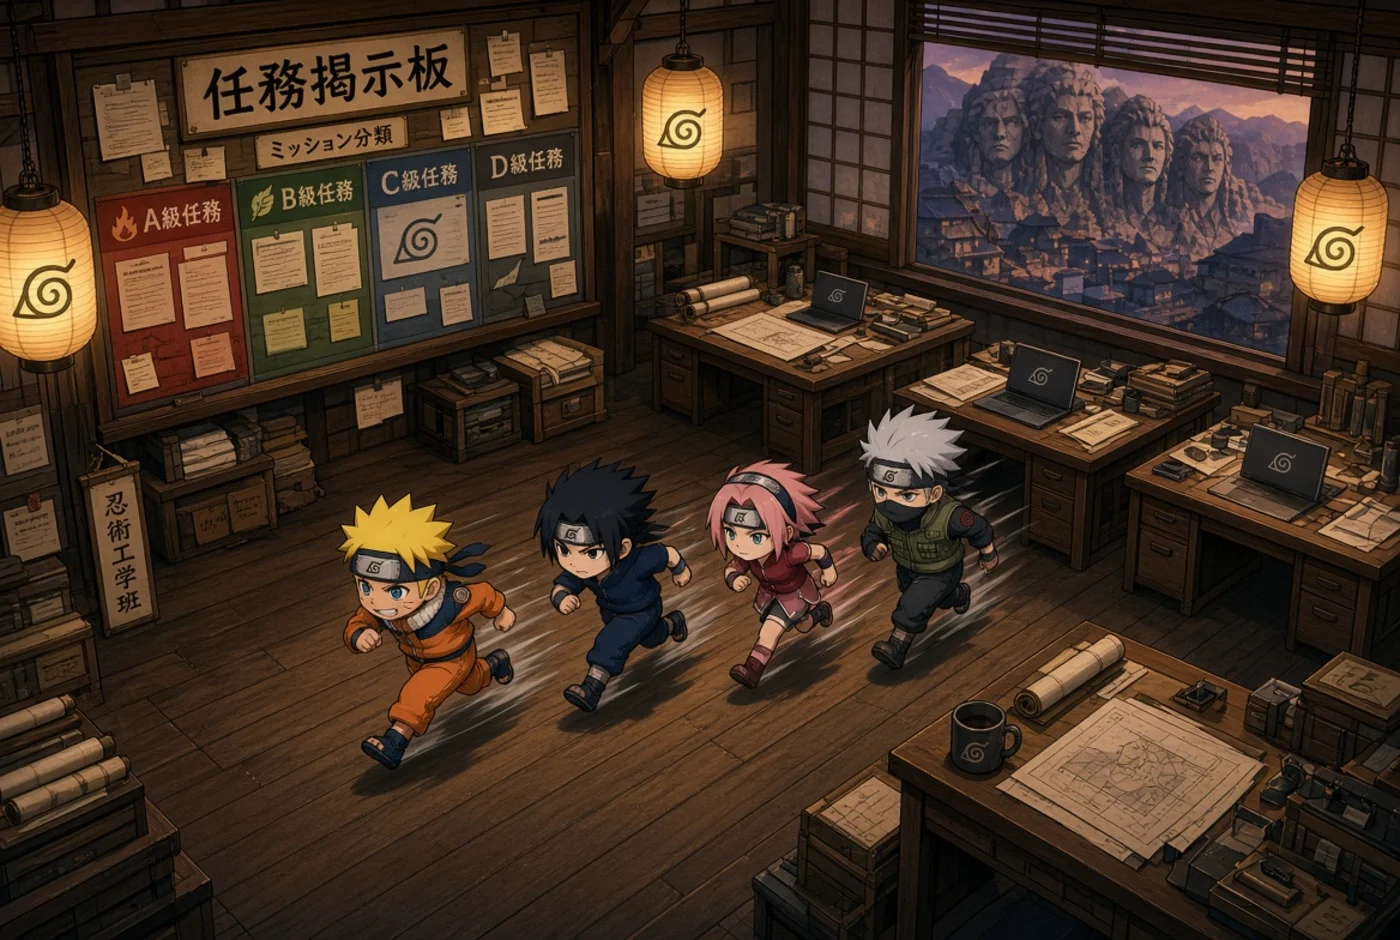
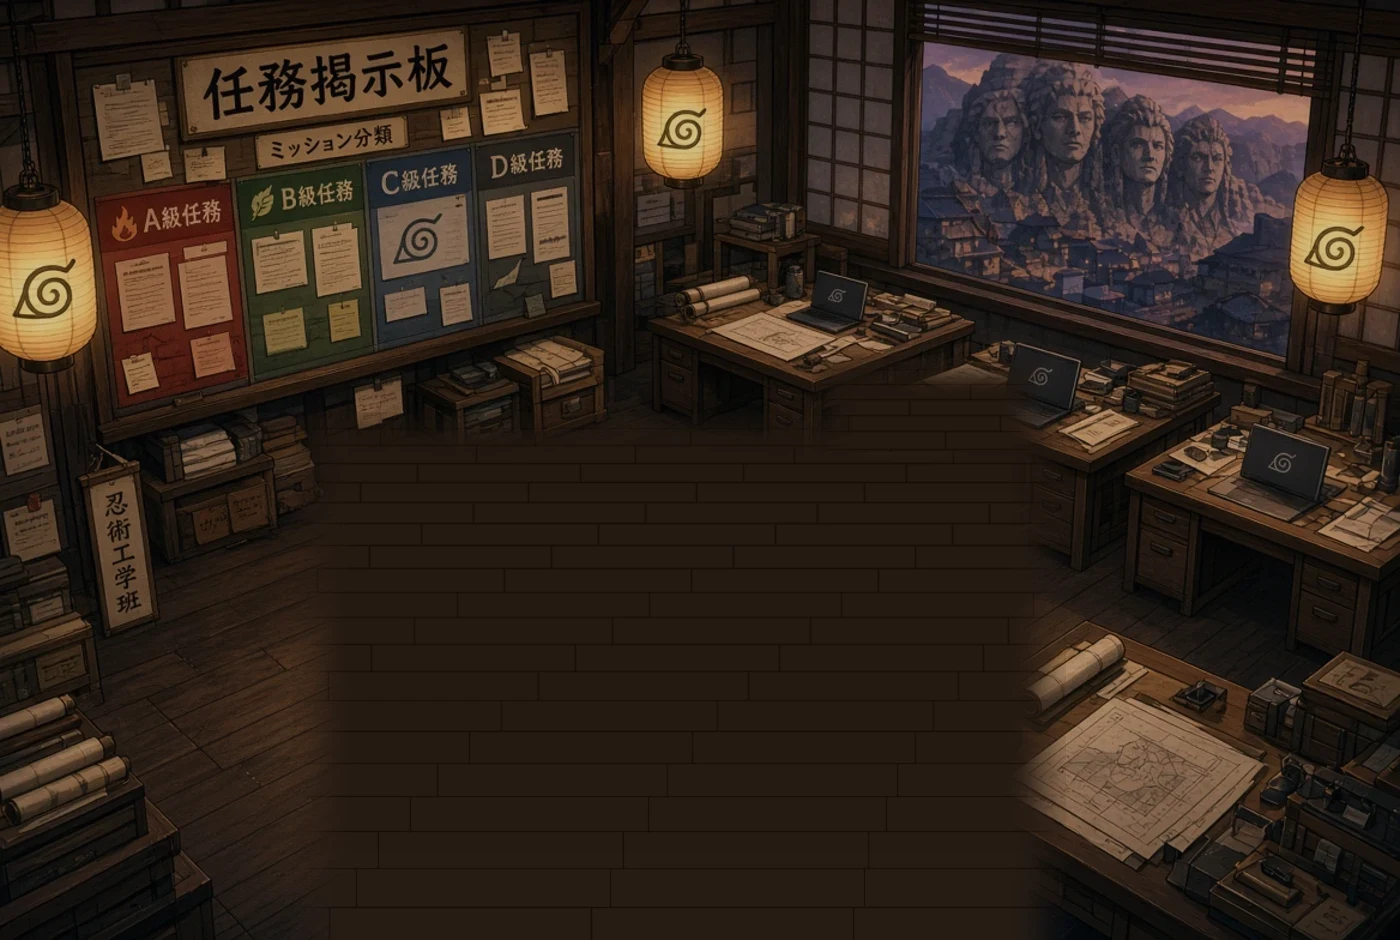
feat: character-free mission room, and labels that match it
The supplied room art had Team 7 painted into it, so the floor carried a second
full-size cast competing with the actual sprites — two Narutos, two Sasukes.

Image generation was unavailable (0 credits), so the plate was rebuilt locally
instead. Copying clean floor over the runners was tried first and rejected: the
reference has no clean floor band big enough, so tiling dragged crates and desk
legs into the middle. What ships keeps the reference's whole upper half — the
mission board, lanterns, Hokage-rock window, desks, scrolls, all genuinely
character-free — and REDRAWS the centre floor as planks in tones sampled from
the room's own palette, feathered into the untouched sides.

Coverage is two patches, not one: the runners' heads sit at different heights
(Kakashi's hair reaches y~400, Naruto's fringe only y~500), so a single straight
cut either clipped the desks or left hair showing through the feathered edge.

Labels follow the art: this is an interior mission room, so 'Village gate' ->
'Window', 'Ichiraku' -> 'Tea corner', 'Training post' -> 'Desk', 'Perch' ->
'Floor', and the ambient lines match. Slot COORDINATES are untouched — the
isometric perspective already reads correctly (small y = back of the room), so
the navigation graph needed no rewiring.

Floor is 148 KB, down from 216 KB. 63 tests, validator clean, verified in a
real browser with eight agents and a jutsu mid-ritual.

Claude-Session: https://claude.ai/code/session_019aY4fCaH9tfGUQpJD7WuVK

diff --git a/js/themes/leaf.js b/js/themes/leaf.js
@@ -36,21 +36,21 @@
     slots: {
       ORCHESTRATOR_HOME: { x: 50, y: 22, face: 'up', label: nm('Hokage desk', 'Leader desk') },
       THINK_SPOT: { x: 12, y: 30, face: 'left', label: 'Mission board' },
-      BREAK_SPOT: { x: 87, y: 18, face: 'up', label: nm('Ichiraku', 'Ramen stand') },
-      AMBIENT_SPOT: { x: 50, y: 8, face: 'up', label: 'Village gate' },
-      GATHER_SPOT: { x: 50, y: 60, face: 'down', label: 'Training ground' },
+      BREAK_SPOT: { x: 87, y: 18, face: 'up', label: 'Tea corner' },
+      AMBIENT_SPOT: { x: 50, y: 8, face: 'up', label: 'Window' },
+      GATHER_SPOT: { x: 50, y: 60, face: 'down', label: 'Briefing floor' },
 
-      WORKER_1: { x: 18, y: 48, face: 'left', label: 'Training post' },
-      WORKER_2: { x: 82, y: 48, face: 'right', label: 'Training post' },
-      WORKER_3: { x: 18, y: 74, face: 'left', label: 'Training post' },
-      WORKER_4: { x: 82, y: 74, face: 'right', label: 'Training post' },
+      WORKER_1: { x: 18, y: 48, face: 'left', label: 'Desk' },
+      WORKER_2: { x: 82, y: 48, face: 'right', label: 'Desk' },
+      WORKER_3: { x: 18, y: 74, face: 'left', label: 'Desk' },
+      WORKER_4: { x: 82, y: 74, face: 'right', label: 'Desk' },
 
-      OVERFLOW_1: { x: 33, y: 58, face: 'down', label: 'Perch' },
-      OVERFLOW_2: { x: 50, y: 55, face: 'down', label: 'Perch' },
-      OVERFLOW_3: { x: 67, y: 58, face: 'down', label: 'Perch' },
-      OVERFLOW_4: { x: 33, y: 72, face: 'down', label: 'Perch' },
-      OVERFLOW_5: { x: 50, y: 73, face: 'down', label: 'Perch' },
-      OVERFLOW_6: { x: 67, y: 72, face: 'down', label: 'Perch' },
+      OVERFLOW_1: { x: 33, y: 58, face: 'down', label: 'Floor' },
+      OVERFLOW_2: { x: 50, y: 55, face: 'down', label: 'Floor' },
+      OVERFLOW_3: { x: 67, y: 58, face: 'down', label: 'Floor' },
+      OVERFLOW_4: { x: 33, y: 72, face: 'down', label: 'Floor' },
+      OVERFLOW_5: { x: 50, y: 73, face: 'down', label: 'Floor' },
+      OVERFLOW_6: { x: 67, y: 72, face: 'down', label: 'Floor' },
     },
 
     waypoints: {
@@ -98,14 +98,14 @@
     // Scenery is painted into village-floor.webp; these are label hotspots
     // positioned to sit under the corresponding painted landmark.
     furniture: [
-      { id: 'gate', kind: 'hotspot', x: 50, y: 8, label: 'Village gate' },
+      { id: 'window', kind: 'hotspot', x: 50, y: 8, label: 'Window' },
       { id: 'tower', kind: 'hotspot', x: 50, y: 22, label: nm('Hokage tower', 'Leader tower') },
-      { id: 'ramen', kind: 'hotspot', x: 87, y: 18, label: nm('Ichiraku', 'Ramen') },
-      { id: 'board', kind: 'hotspot', x: 12, y: 30, label: 'Missions' },
-      { id: 'post-1', kind: 'hotspot', x: 18, y: 48, label: 'Post' },
-      { id: 'post-2', kind: 'hotspot', x: 82, y: 48, label: 'Post' },
-      { id: 'post-3', kind: 'hotspot', x: 18, y: 74, label: 'Post' },
-      { id: 'post-4', kind: 'hotspot', x: 82, y: 74, label: 'Post' },
+      { id: 'tea', kind: 'hotspot', x: 87, y: 18, label: 'Tea corner' },
+      { id: 'board', kind: 'hotspot', x: 12, y: 30, label: 'Mission board' },
+      { id: 'post-1', kind: 'hotspot', x: 18, y: 48, label: 'Desk' },
+      { id: 'post-2', kind: 'hotspot', x: 82, y: 48, label: 'Desk' },
+      { id: 'post-3', kind: 'hotspot', x: 18, y: 74, label: 'Desk' },
+      { id: 'post-4', kind: 'hotspot', x: 82, y: 74, label: 'Desk' },
     ],
 
     cast: [
@@ -147,9 +147,9 @@
 
     strings: {
       ambient_THINK_SPOT: 'Reading the mission scroll…',
-      ambient_BREAK_SPOT: '🍜 ramen break',
-      ambient_GATHER_SPOT: 'Training',
-      ambient_AMBIENT_SPOT: 'Watching the gate',
+      ambient_BREAK_SPOT: '🍵 tea break',
+      ambient_GATHER_SPOT: 'Stretching',
+      ambient_AMBIENT_SPOT: 'Watching the village',
     },
 
     // The painted mission-room scene. js/world.js sets `--floor-image` from
